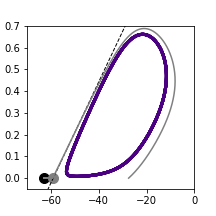
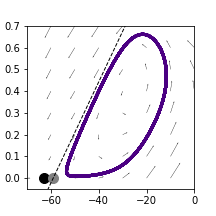
phase planes with field

diff --git a/Neuron.py b/Neuron.py
@@ -54,7 +54,8 @@ def find_points(tau_n, Iapp, v0=[-75,-27.5,-50]*mV,n0=[.05,0,.01], plot = False)
     file_name = str(tau_n)+'  '+str(Iapp)
     if plot:
         plot_bifurcation(t,V[-1],n[-1], node, saddle, sep_slope, cycle_boundary)
-        plt.plot(V[-2], n[-2], color = 'grey')
+        plot_field(tau_n, Iapp, plot=True)
+#        plt.plot(V[-2], n[-2], color = 'grey')
         plt.savefig('points/'+file_name+'.png') 
         plt.show()
 
@@ -133,7 +134,7 @@ def plot_bifurcation(t,V,n,node,saddle, sep_slope, cycle_boundary):
     plt.plot(saddle[0], saddle[1], marker = 'o', color = '.5', ms=10)
     y = np.linspace(-.1,.7,50)
     x = sep_slope[0]/sep_slope[1]*(y-saddle[1])+saddle[0]
-    plt.plot(x,y, color = '0', linestyle = '--',linewidth = 1)
+#    plt.plot(x,y, color = '0', linestyle = '--',linewidth = 1)
     plt.xlim((-70,0))
     plt.ylim((-.05,.7))
     
@@ -332,6 +333,7 @@ def plot_field(tau_n, Iapp, plot = False):
     dn_grid = (1./(1+exp((-25-v_grid)/5.))-n_grid)/tau_n*ms/.75
     #Normalization to have all vectors of the same length (otherwise the small ones are too small)
     norm = np.sqrt(np.square(dv_grid)+np.square(dn_grid))
+    
 #    print(dv_grid)
     dv_grid += 2*dv_grid/norm
     dn_grid += 2*dn_grid/norm
@@ -376,11 +378,11 @@ m_inf = 1./(1+exp((-20-v/mV)/15.)) : 1
 #tau_n = args[0] * ms
 #Iapp = args[1] * uA #/cm**2
 tau_n = .155 * ms
-Iapp = 3.8 * uA #/cm**2
+Iapp = 4.5 * uA #/cm**2
 I_noise = 2.5*uA
 duration = 50*ms
 
-#find_points(tau_n, Iapp, plot = True)
+find_points(tau_n, Iapp, plot = True)
 
 #plot_everything(tau_n=tau_n, Iapp=Iapp, duration=duration, I_noise=I_noise, number =5, plot=True)
 
